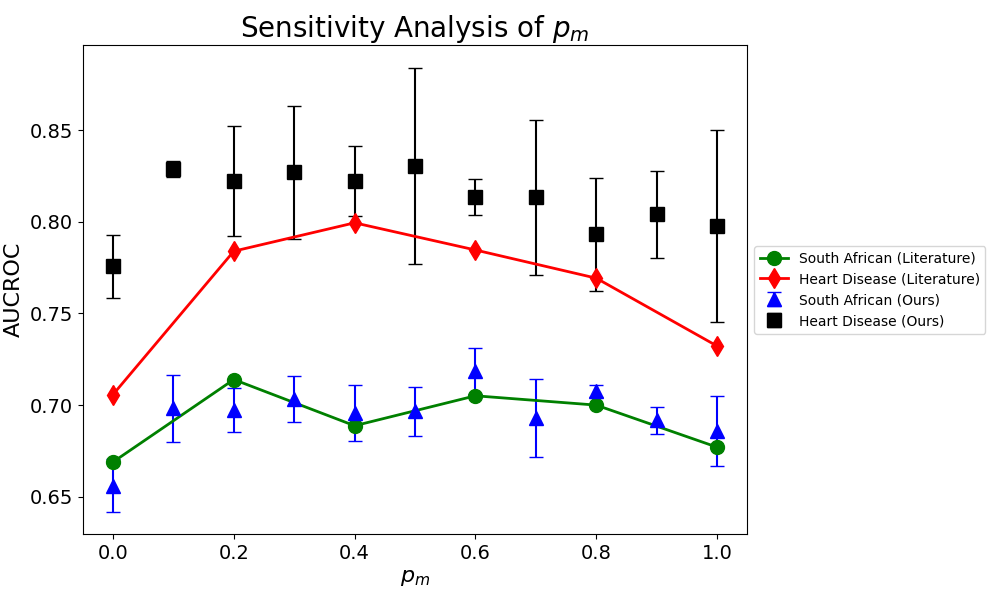
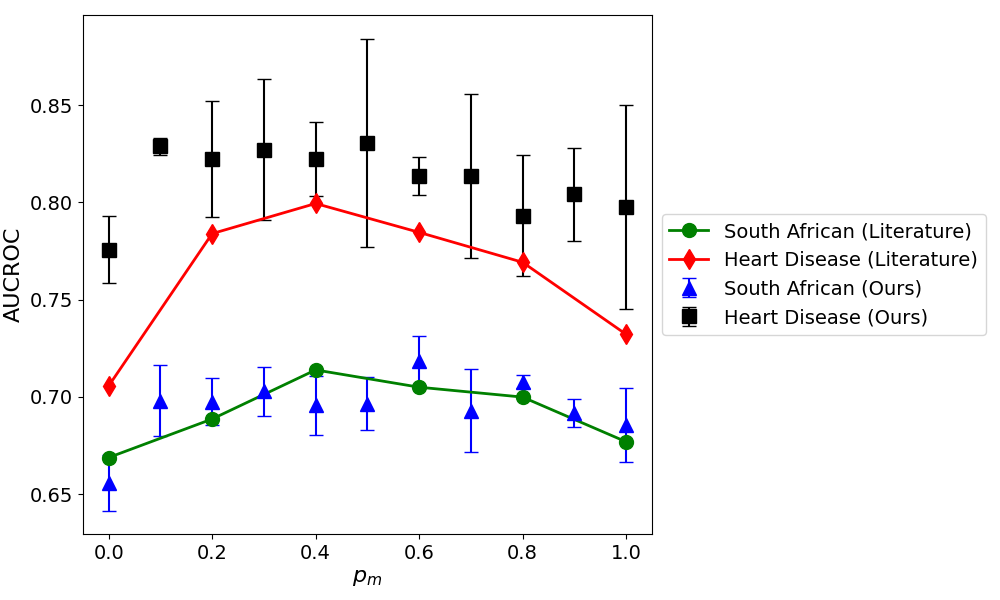
Fixed mislabel in hp figure

diff --git a/hp_visualization.py b/hp_visualization.py
@@ -71,8 +71,8 @@ x_values_2 = [
 # Dataset 3 (solid red line)
 saheart_truth = [
     0.668885884,
-    0.713906012,
     0.688691225,
+    0.713906012,
     0.705031487,
     0.69994672,
     0.677000977
@@ -114,12 +114,12 @@ plt.plot(
 )
 
 # Labels and title
-plt.title(r'Sensitivity Analysis of $p_m$', fontsize=20)
+# plt.title(r'Sensitivity Analysis of $p_m$', fontsize=20)
 plt.xlabel(r'$p_m$', fontsize=16)
 plt.ylabel('AUCROC', fontsize=16)
 
 # Grid and legend
-plt.legend(fontsize=10, loc='center left', bbox_to_anchor=(1, 0.5))
+plt.legend(fontsize=14, loc='center left', bbox_to_anchor=(1, 0.5))
 plt.tight_layout()
 plt.tick_params(axis='both', which='major', labelsize=14)
 
